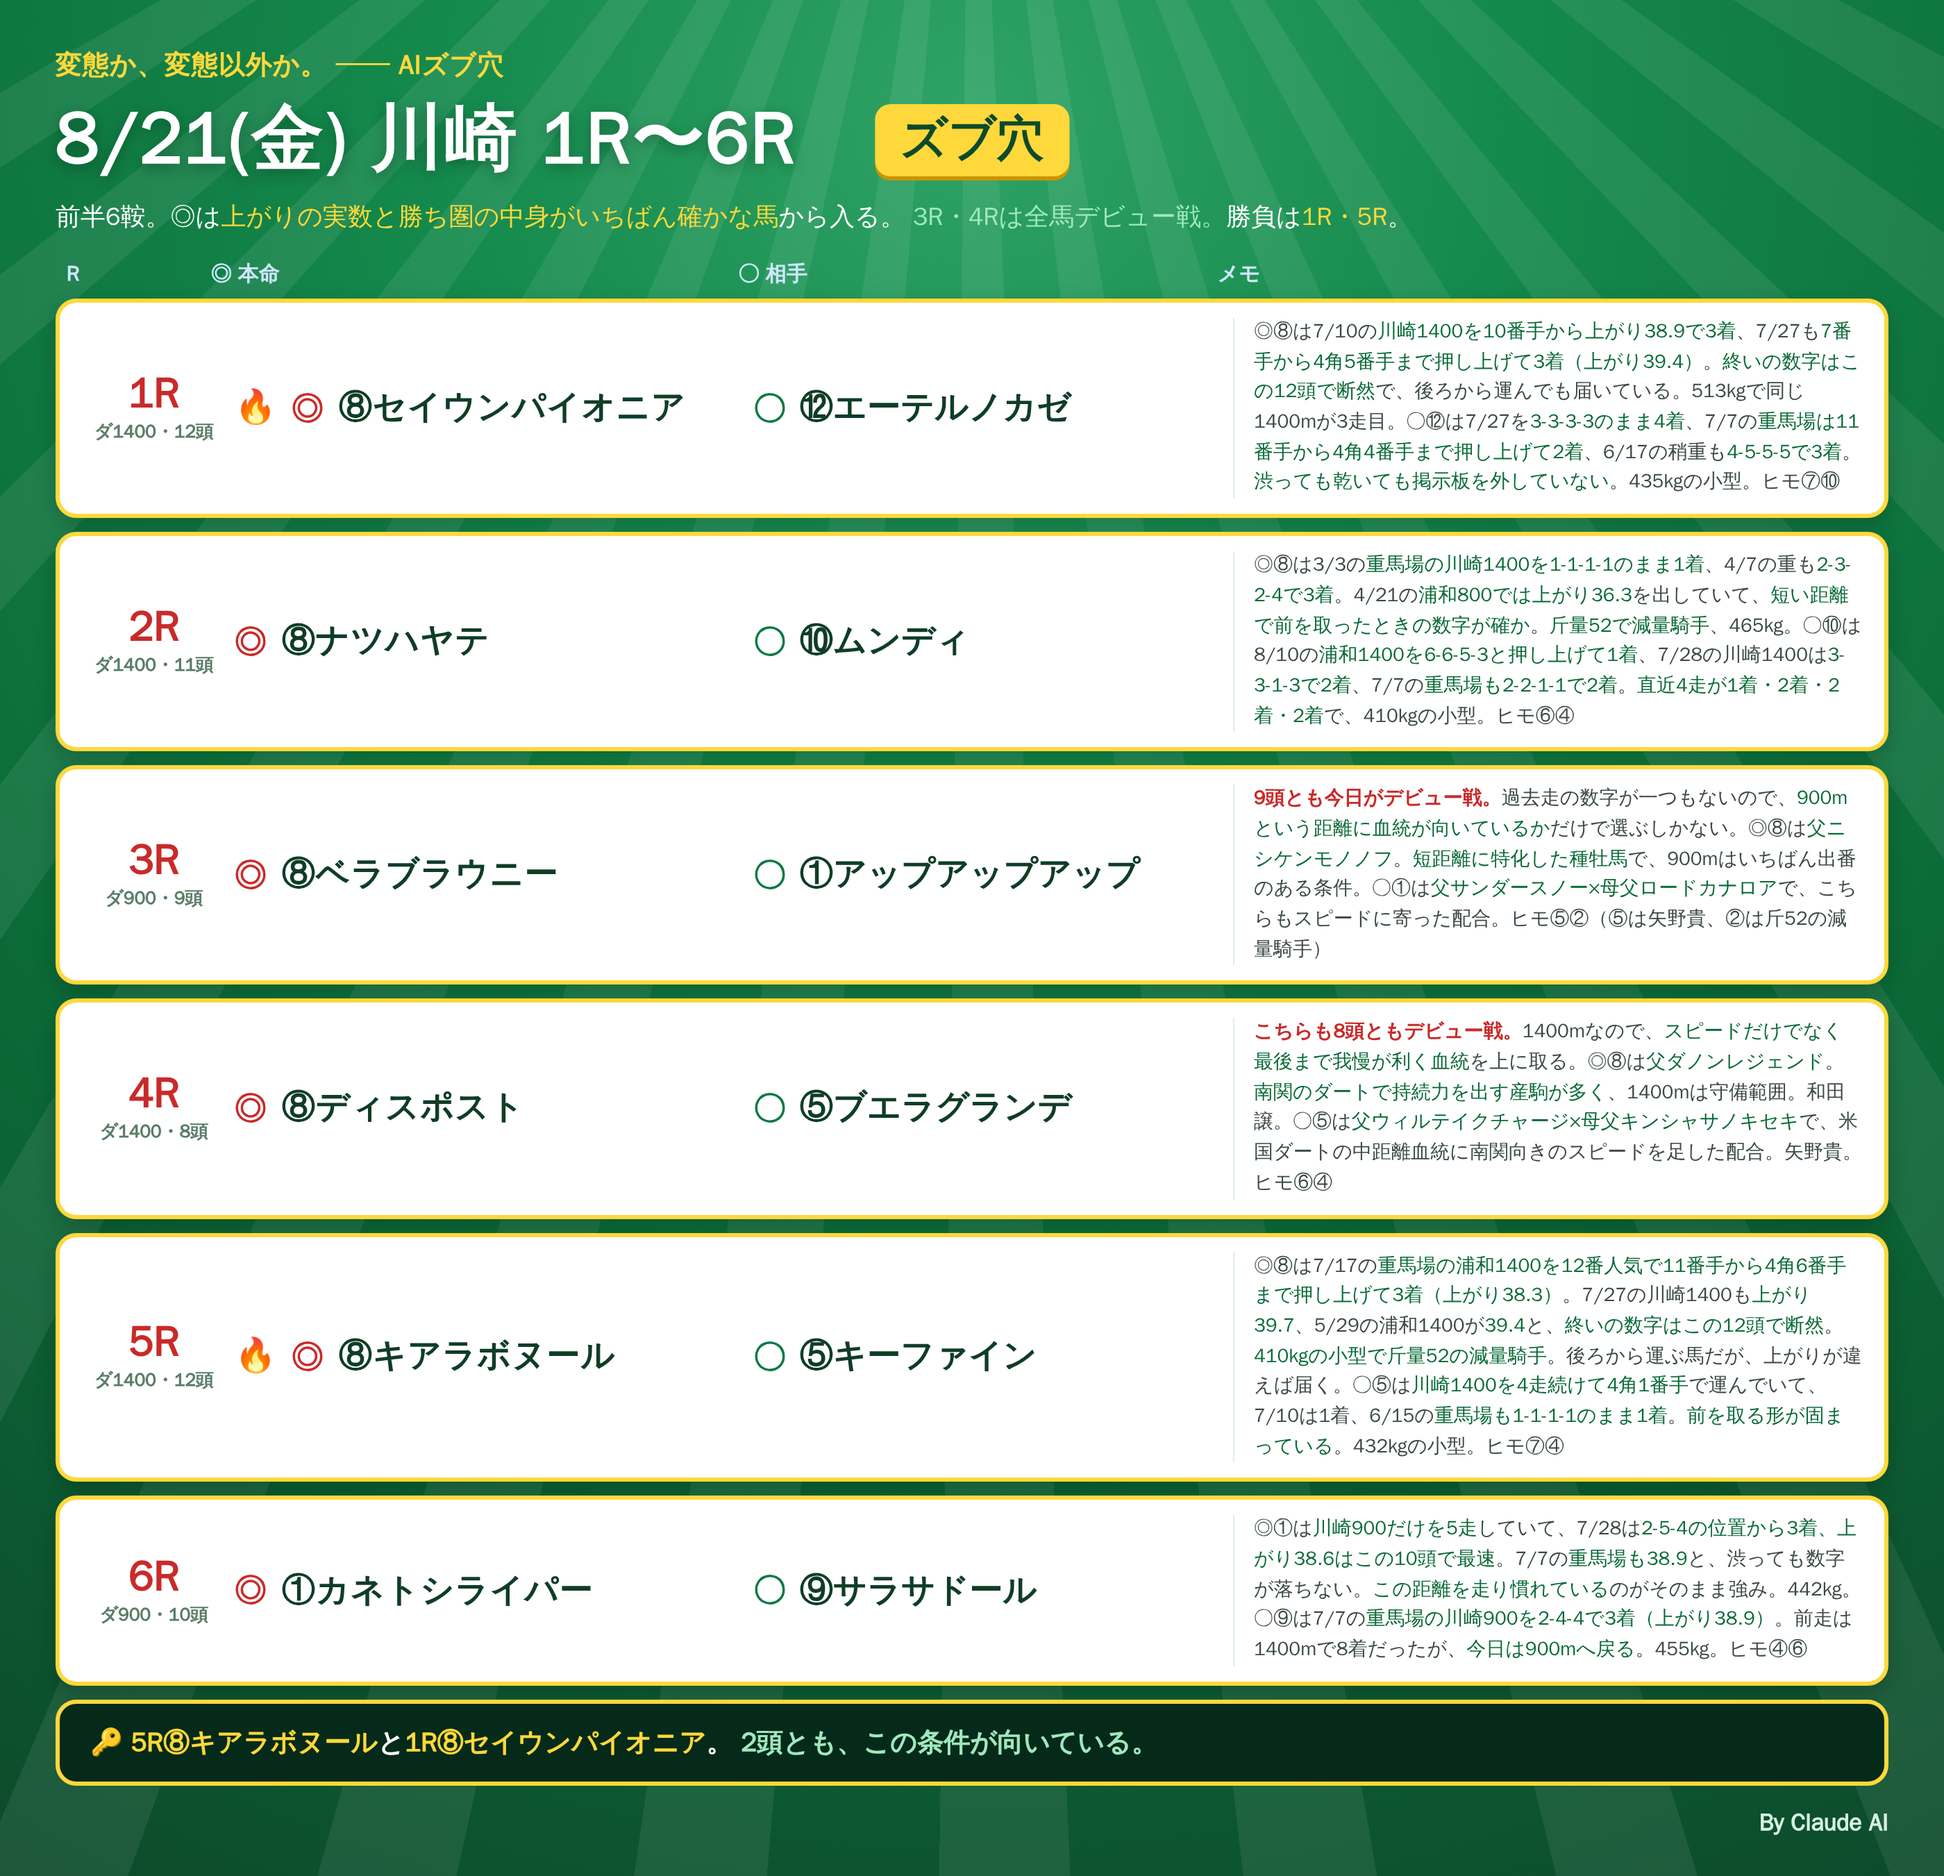
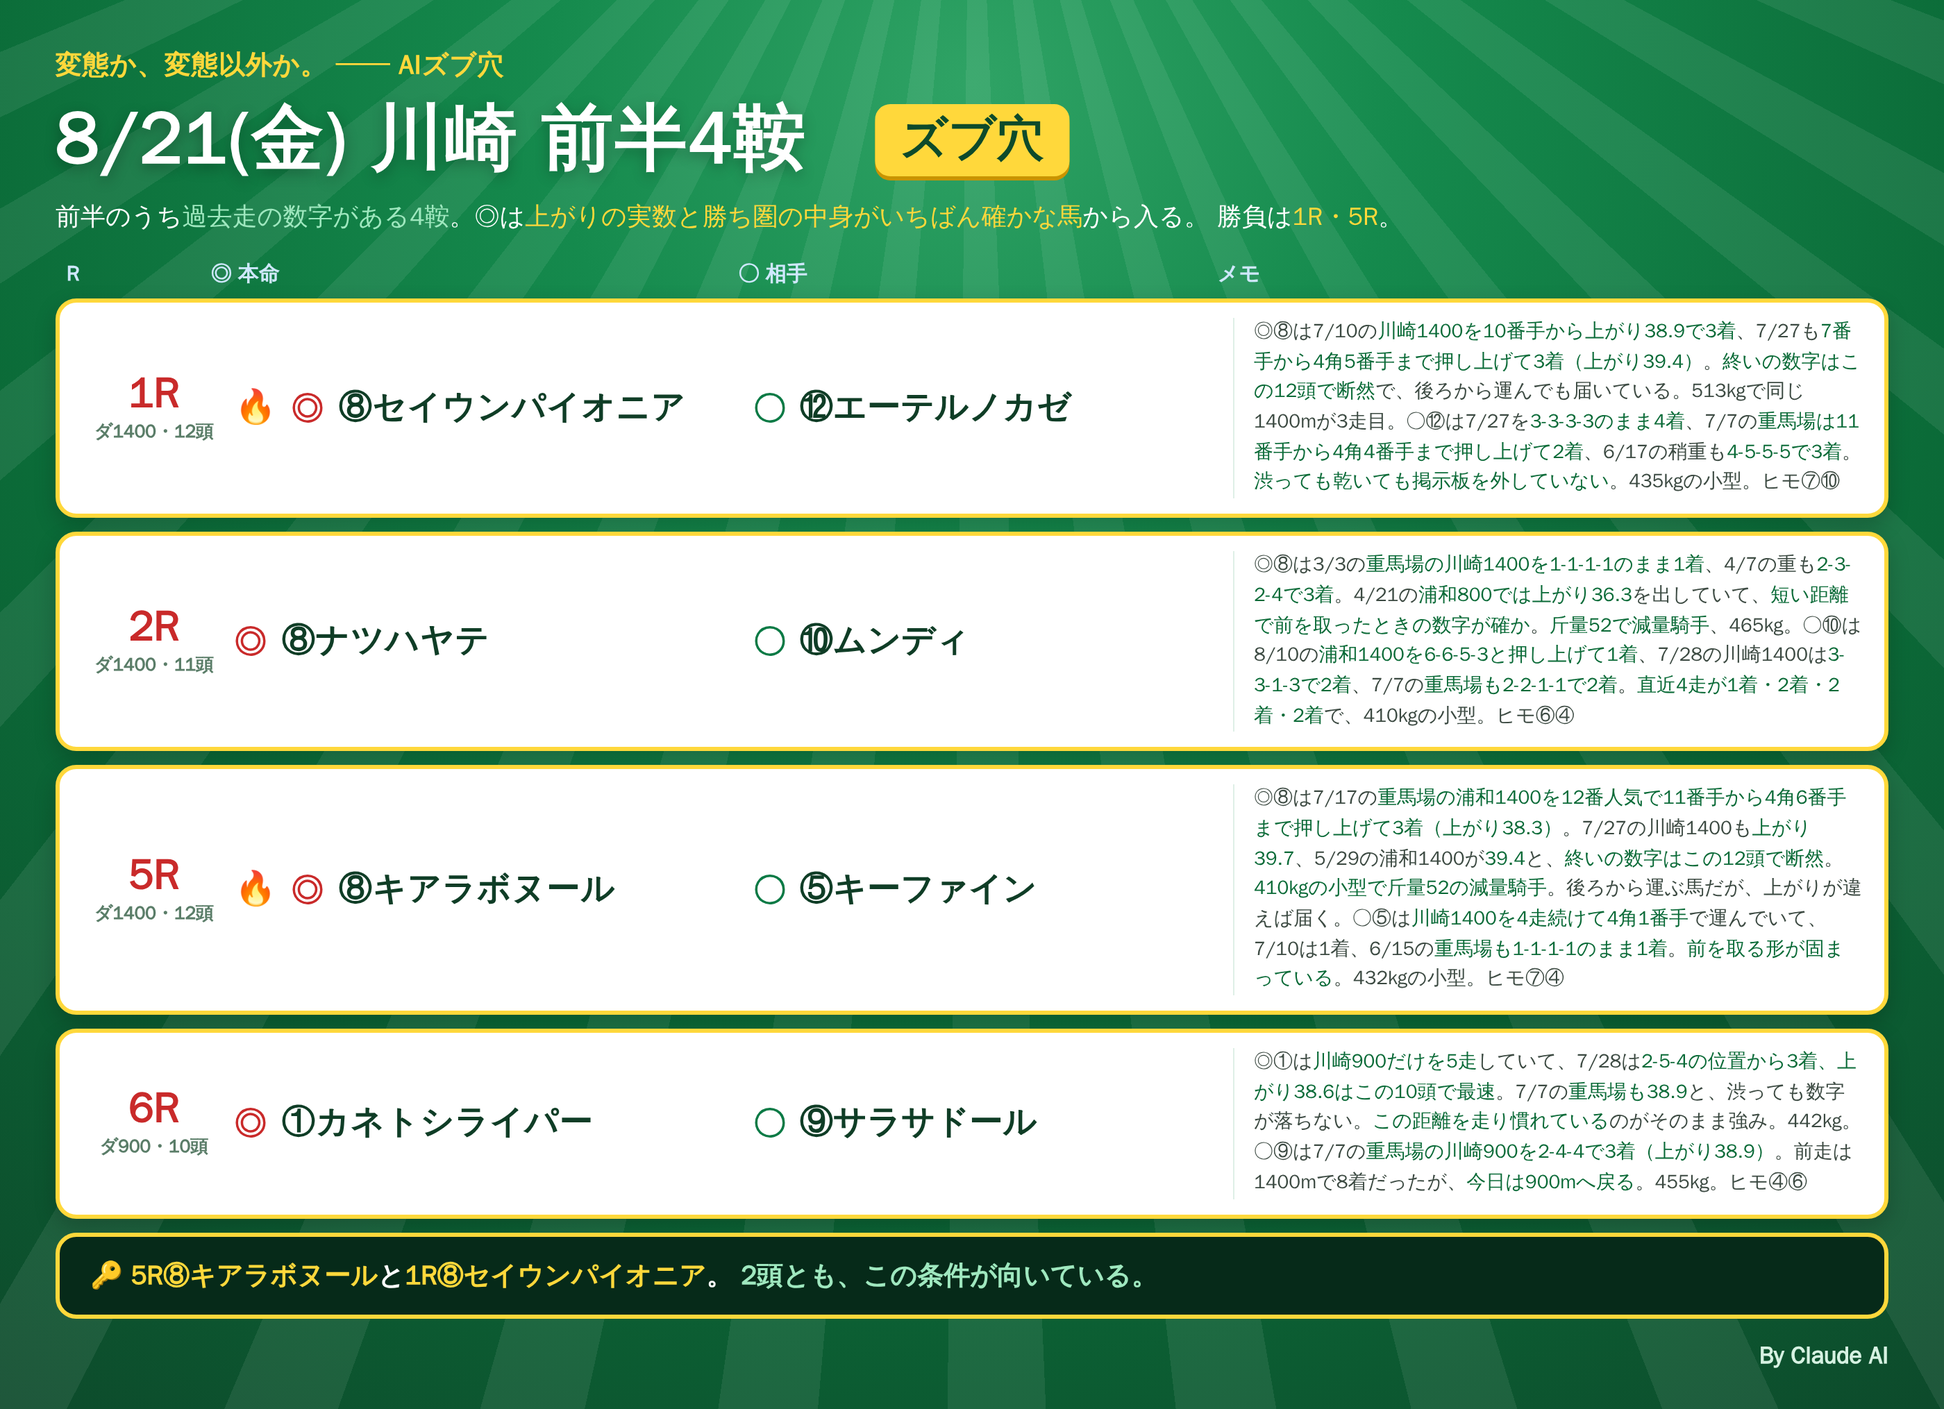
notes: 8/21 前半カードから3R・4Rを除外
全馬デビュー戦で過去走の数字が一つもなく、血統だけの選定になるため掲載しない。
タイトルを「前半4鞍」に変更。

Claude-Session: https://claude.ai/code/session_01RoHscZkr96FNaxQWvUqgEw

Changed region(s): [[0.0311, 0.031, 0.9943, 0.9931]]

diff --git a/notes/live/2026-08-21/kawasaki_1_6.html b/notes/live/2026-08-21/kawasaki_1_6.html
@@ -45,11 +45,11 @@
 <div class="card"><div class="rays"></div><div class="inner">
   <div class="kicker">変態か、変態以外か。 ── AIズブ穴</div>
   <div class="titleline">
-    <div class="title">8/21(金) 川崎 1R〜6R</div>
+    <div class="title">8/21(金) 川崎 前半4鞍</div>
     <div class="bdg">ズブ穴</div>
   </div>
-  <div class="lead">前半6鞍。◎は<span class="y">上がりの実数と勝ち圏の中身がいちばん確かな馬</span>から入る。
-  <span class="c">3R・4Rは全馬デビュー戦。</span>勝負は<span class="y">1R・5R</span>。</div>
+  <div class="lead">前半のうち<span class="c">過去走の数字がある4鞍</span>。◎は<span class="y">上がりの実数と勝ち圏の中身がいちばん確かな馬</span>から入る。
+  勝負は<span class="y">1R・5R</span>。</div>
 
   <div class="cols"><div class="cR">R</div><div class="cH">◎ 本命</div><div class="cA">○ 相手</div><div class="cM">メモ</div></div>
 
@@ -65,20 +65,6 @@
     <div class="hm"><span class="mk">◎</span><span class="nm">⑧ナツハヤテ</span></div>
     <div class="at"><span class="mk2">○</span><span class="nm2">⑩ムンディ</span></div>
     <div class="memo">◎⑧は3/3の<b>重馬場の川崎1400を1-1-1-1のまま1着</b>、4/7の重も<b>2-3-2-4で3着</b>。4/21の<b>浦和800では上がり36.3</b>を出していて、<b>短い距離で前を取ったときの数字が確か</b>。<b>斤量52で減量騎手</b>、465kg。○⑩は8/10の<b>浦和1400を6-6-5-3と押し上げて1着</b>、7/28の川崎1400は<b>3-3-1-3で2着</b>、7/7の<b>重馬場も2-2-1-1で2着</b>。<b>直近4走が1着・2着・2着・2着</b>で、410kgの小型。ヒモ⑥④</div>
-  </div>
-
-  <div class="row">
-    <div class="rN"><div class="n">3R</div><div class="d">ダ900・9頭</div></div>
-    <div class="hm"><span class="mk">◎</span><span class="nm">⑧ベラブラウニー</span></div>
-    <div class="at"><span class="mk2">○</span><span class="nm2">①アップアップアップ</span></div>
-    <div class="memo"><b class="r">9頭とも今日がデビュー戦。</b>過去走の数字が一つもないので、<b>900mという距離に血統が向いているか</b>だけで選ぶしかない。◎⑧は<b>父ニシケンモノノフ</b>。<b>短距離に特化した種牡馬</b>で、900mはいちばん出番のある条件。○①は<b>父サンダースノー×母父ロードカナロア</b>で、こちらもスピードに寄った配合。ヒモ⑤②（⑤は矢野貴、②は斤52の減量騎手）</div>
-  </div>
-
-  <div class="row">
-    <div class="rN"><div class="n">4R</div><div class="d">ダ1400・8頭</div></div>
-    <div class="hm"><span class="mk">◎</span><span class="nm">⑧ディスポスト</span></div>
-    <div class="at"><span class="mk2">○</span><span class="nm2">⑤ブエラグランデ</span></div>
-    <div class="memo"><b class="r">こちらも8頭ともデビュー戦。</b>1400mなので、<b>スピードだけでなく最後まで我慢が利く血統</b>を上に取る。◎⑧は<b>父ダノンレジェンド</b>。<b>南関のダートで持続力を出す産駒が多く</b>、1400mは守備範囲。和田譲。○⑤は<b>父ウィルテイクチャージ×母父キンシャサノキセキ</b>で、米国ダートの中距離血統に南関向きのスピードを足した配合。矢野貴。ヒモ⑥④</div>
   </div>
 
   <div class="row">

diff --git a/notes/live/2026-08-21/README.md b/notes/live/2026-08-21/README.md
@@ -1,4 +1,4 @@
-# 2026-08-21(金) 川崎 1R〜6R ズブ穴
+# 2026-08-21(金) 川崎 前半4鞍 ズブ穴
 
 ## 選定手順を変更した
 
@@ -26,8 +26,6 @@
 |---|---|---|---|---|---|
 | 1R | ダ1400・12頭 | 🔥⑧セイウンパイオニア | ⑫エーテルノカゼ | ⑦⑩ | ◎上がり38.9/39.4が12頭断然 |
 | 2R | ダ1400・11頭 | ⑧ナツハヤテ | ⑩ムンディ | ⑥④ | ◎重1400を1-1-1-1で勝ち、斤52 |
-| 3R | ダ900・9頭 | ⑧ベラブラウニー | ①アップアップアップ | ⑤② | 全馬デビュー戦・血統のみ |
-| 4R | ダ1400・8頭 | ⑧ディスポスト | ⑤ブエラグランデ | ⑥④ | 全馬デビュー戦・血統のみ |
 | 5R | ダ1400・12頭 | 🔥⑧キアラボヌール | ⑤キーファイン | ⑦④ | ◎399=3.9で12頭最上位 |
 | 6R | ダ900・10頭 | ①カネトシライパー | ⑨サラサドール | ④⑥ | ◎上がり38.6が10頭最速 |
 
@@ -40,8 +38,8 @@
 新ルール（測った数字を優先）と8/20の馬場傾向（3番手以内7勝）が真っ向から割れる一戦なので、
 どちらが来たかで次の調整が決まる。
 
-### 3R・4R はデビュー戦
+### 3R・4R は出さない
 
-9頭／8頭とも過去走ゼロ。399も上がりも存在しないので、
-**900mなら短距離特化の父、1400mなら持続力の出る父**という基準だけで置いた。
-カード上にもその旨を明記している（数字がある顔をしない）。
+どちらも全馬デビュー戦で、9頭／8頭とも過去走ゼロ。399も上がりも存在せず、
+血統だけで印を打つことになるため、**カードから外した**。
+タイトルも「前半4鞍」とし、1R・2R・5R・6R の4鞍のみを掲載する。
